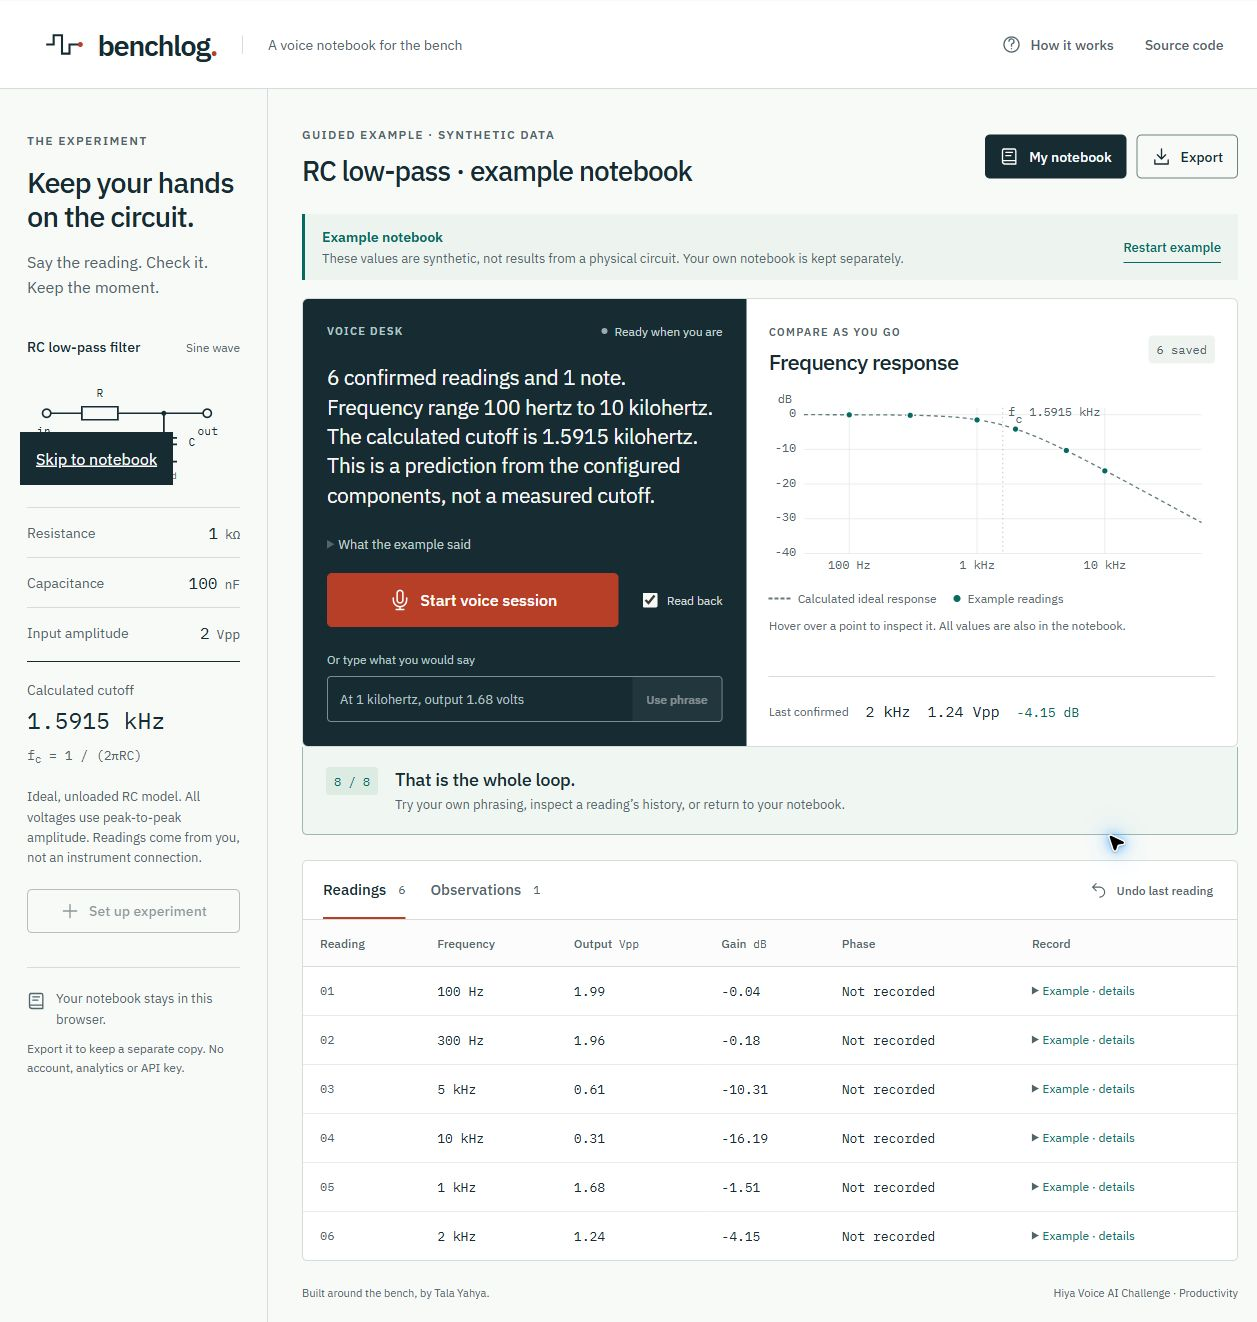
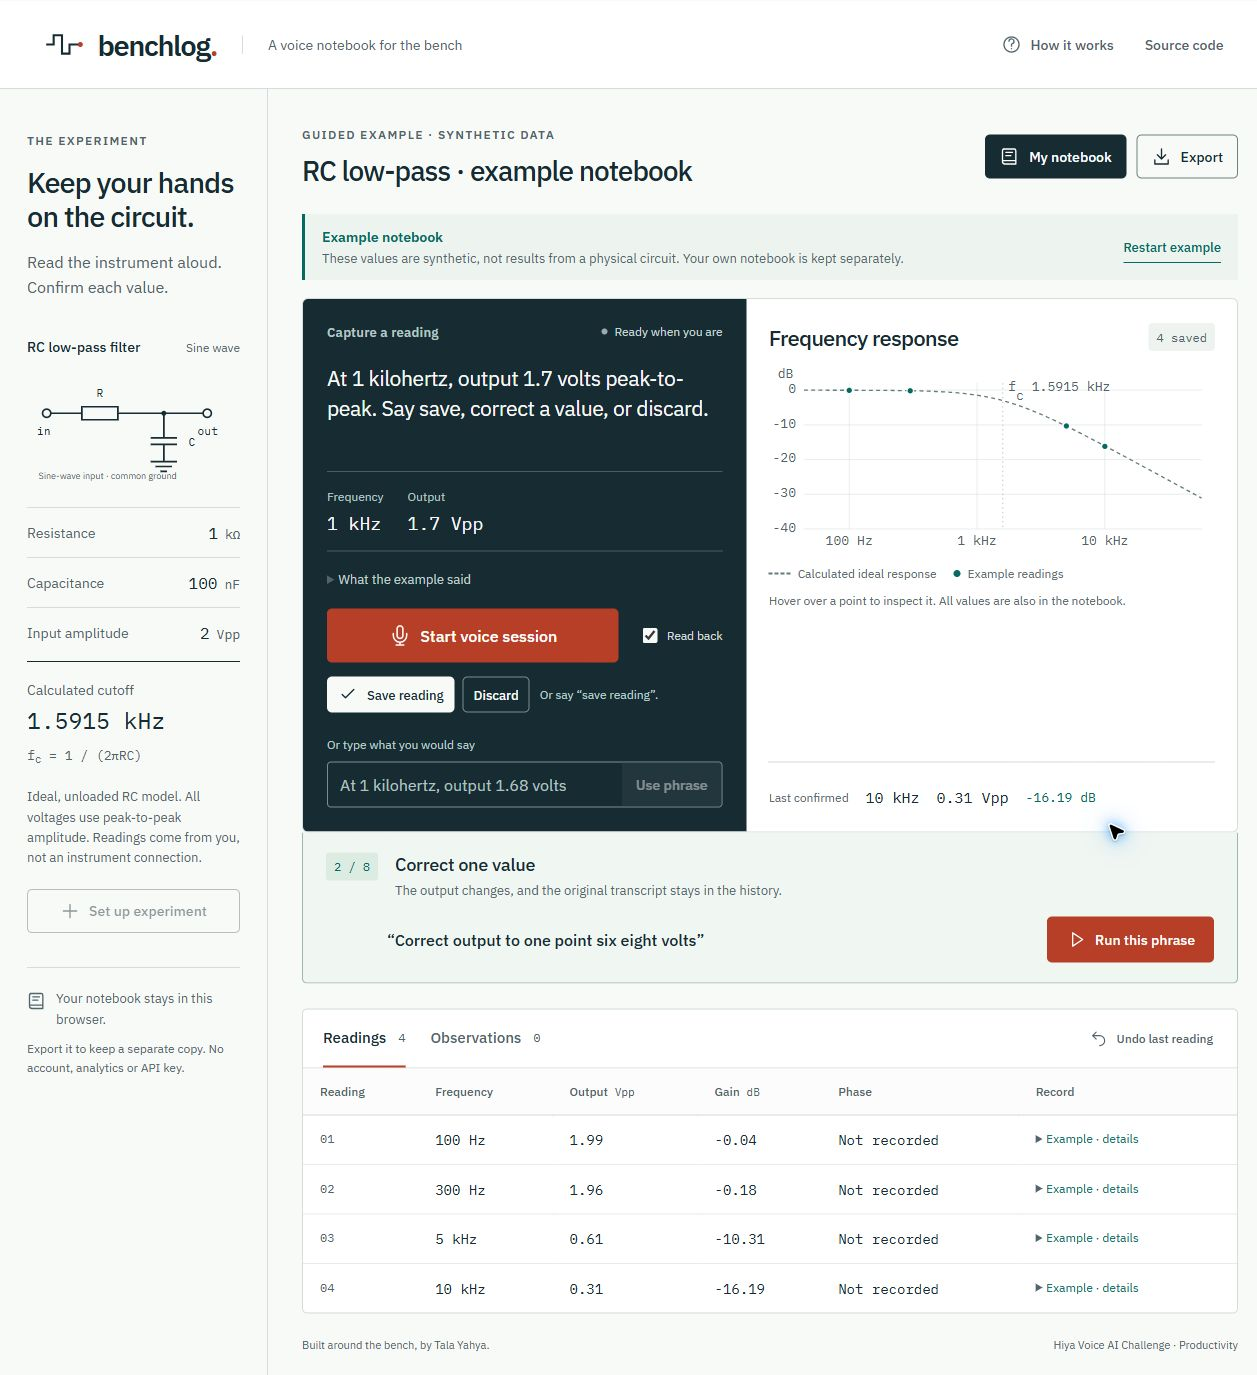
Repair cross-platform install and verify responsive workflow

diff --git a/src/App.tsx b/src/App.tsx
@@ -448,12 +448,12 @@ export default function App() {
         <aside className="experiment">
           <p className="eyebrow">The experiment</p>
           <h1>
-            Keep your hands
+            Keep your hands{" "}
             <br />
             on the circuit.
           </h1>
           <p className="intro">
-            Read the instrument aloud.
+            Read the instrument aloud.{" "}
             <br />
             Confirm each value.
           </p>

diff --git a/docs/verification.md b/docs/verification.md
@@ -4,15 +4,18 @@ Checked during development on **18 November 2026**. This record distinguishes ob
 
 ## Observed browser workflow
 
-The production build was exercised in **desktop Microsoft Edge**. These observations concern that build and environment; they do not establish that a public deployment or every other browser has been checked.
+The production build was served on **localhost and exercised in desktop Microsoft Edge**. These observations concern that build and environment; they do not establish that a public deployment or every other browser has been checked.
 
 | Check                  | Observed result                                                                                                                                                    | What it establishes                                                                                                      |
 | ---------------------- | ------------------------------------------------------------------------------------------------------------------------------------------------------------------ | ------------------------------------------------------------------------------------------------------------------------ |
 | Bundled audio fixture  | `public/examples/reading.wav` is a synthetic Windows text-to-speech clip saying “At one kilohertz, output one point seven volts.”                                  | The input is a reproducible artificial speech sample, not audio from a physical lab experiment.                          |
-| Actual local inference | **How it works > Transcribe the sample on this device** ran the audio through the local Whisper model. The returned text was “At one kilohertz, output 1.7 volts.” | Audio-file decoding and real ASR inference worked for this clip. The result was not supplied as a hard-coded transcript. |
+| Actual local inference | **How it works > Transcribe the sample on this device** ran the audio through the local Whisper model. The returned text was “At 1 kilohertz, output 1.7 volts.” | Audio-file decoding and real ASR inference worked for this clip. The result was not supplied as a hard-coded transcript. |
 | Interpretation         | The result appeared as a pending **1000 Hz / 1.7 Vpp** reading.                                                                                                    | The recognised phrase reached the measurement interpreter with the expected units and values.                            |
 | Correction             | The guided correction changed the proposed output to **1.68 Vpp**.                                                                                                 | A supported correction changed the intended field before confirmation.                                                   |
 | Confirmation           | Saving the corrected reading updated the notebook and response graph.                                                                                              | The inspected flow kept the reading pending until confirmation and then presented the confirmed result.                  |
+| Complete example       | The eight-step guided workflow finished with six saved readings and one note. | The complete synthetic example worked through the visible interface in this environment. |
+| CSV export             | The downloaded CSV was opened and inspected. It retained the original 1.7 Vpp phrase and correction to 1.68 Vpp. | The downloaded record included provenance, not only the final value shown in the table. |
+| Narrow viewport        | At a 390 × 844 emulated browser viewport, `innerWidth` was 390 and document `scrollWidth` was 375. | No horizontal page overflow was observed at that viewport. This is not a physical mobile-device test. |
 
 The sample route opens an isolated synthetic notebook. The ordinary guided example buttons pass text to the interpreter; they are useful for exploring the command workflow but do not run speech recognition themselves. The audio-fixture route is deliberately separate so reviewers can tell those two kinds of demonstration apart.
 
@@ -25,7 +28,7 @@ npm test
 npm run build
 ```
 
-The test suite covers the implemented command engine and speech lifecycle using controlled inputs and mocked browser APIs. Relevant areas include number/unit handling, invalid inputs, pending versus confirmed records, corrections, export behaviour, cancellation and stale callbacks. The current test count and result should be taken from the runner output, since the suite may change.
+All **91 tests passed** in the full-suite check on 18 November 2026. The test suite covers the implemented command engine and speech lifecycle using controlled inputs and mocked browser APIs. Relevant areas include number/unit handling, invalid inputs, pending versus confirmed records, corrections, export behaviour, cancellation and stale callbacks. This is a dated result; use the runner output for the current count and result as the suite changes.
 
 Mocked microphone and speech-synthesis tests check the application's reactions to events. They do not measure how well a real microphone captures speech, whether a real browser recognises different voices, or how noisy a laboratory can be before the workflow degrades.
 

diff --git a/README.md b/README.md
@@ -51,7 +51,7 @@ You can use **Or type what you would say** throughout. This exercises the same c
 
 Open **How it works**, then choose **Transcribe the sample on this device**. The app feeds [`public/examples/reading.wav`](public/examples/reading.wav), a synthetic Windows text-to-speech recording, through the actual local Whisper model. It opens an isolated example notebook, downloads the model if necessary and presents the resulting transcript as a pending reading. This is real model inference on synthetic audio, rather than a prerecorded transcript substituted for recognition.
 
-In a desktop Edge check, Whisper returned **“At one kilohertz, output 1.7 volts.”**, which became a pending **1000 Hz / 1.7 Vpp** reading. The guided correction to **1.68 Vpp** and subsequent confirmation added it to the notebook and plot. This checks one audio fixture, not live microphone accuracy or general recognition performance. See the [verification record](docs/verification.md).
+In a desktop Edge check, Whisper returned **“At 1 kilohertz, output 1.7 volts.”**, which became a pending **1000 Hz / 1.7 Vpp** reading. The guided correction to **1.68 Vpp** and subsequent confirmation added it to the notebook and plot. This checks one audio fixture, not live microphone accuracy or general recognition performance. See the [verification record](docs/verification.md).
 
 ## Supported commands
 
@@ -147,9 +147,9 @@ With the defaults, the calculated cutoff is approximately **1.59 kHz**. The expe
 
 ## Verification and limits
 
-The tests exercise the command engine and voice lifecycle, including parsing, validation, correction, confirmation, export behaviour and stale-callback handling. Run `npm test` for the current result. A successful build or mocked voice test does not establish real microphone accuracy.
+The tests exercise the command engine and voice lifecycle, including parsing, validation, correction, confirmation, export behaviour and stale-callback handling. All **91 tests passed** in the full-suite check on 18 November 2026; run `npm test` for the current result. A successful build or mocked voice test does not establish real microphone accuracy.
 
-The production build's local Whisper path was exercised with the bundled synthetic speech fixture in desktop Microsoft Edge. Its recognised values, correction and confirmation were observed in the interface. Live microphone lifecycle behaviour is covered with mocks; there has not been a live user microphone trial or a broad browser/device test. The distinction is recorded in [verification.md](docs/verification.md).
+The localhost production build's local Whisper path was exercised with the bundled synthetic speech fixture in desktop Microsoft Edge. The complete eight-step guided workflow produced six readings and one note. The downloaded CSV retained the original 1.7 Vpp phrase and its correction to 1.68 Vpp. A 390 × 844 browser viewport had no horizontal page overflow; this was an emulated viewport, not a physical mobile-device test. Live microphone lifecycle behaviour is covered with mocks; there has not been a live user microphone trial or a broad browser/device test. The distinction is recorded in [verification.md](docs/verification.md).
 
 This prototype has no completed lab user study, measured time-saving claim or benchmark across accents, noise conditions and devices. It does not check electrical safety or control equipment. Its history is inspectable local provenance, not an immutable audit system. Recognition can be wrong; review each proposed reading.
 

diff --git a/docs/research.md b/docs/research.md
@@ -50,7 +50,7 @@ Public discussions were checked again on 18 November, including the actual threa
 
 The desktop screenshot audit found that the circuit schematic, actual gain plot, numeric ledger and correction history were already specific to the product. The remaining weak spots were smaller: a vague “Keep the moment” phrase, unnecessary “Compare as you go” copy above the already clear plot heading, and duplicate example labels. The decision was to simplify those labels while preserving visible synthetic-data disclosure. Changing the palette or font again would not address those problems.
 
-The audit also caught a focused skip link overlaying the circuit in the captured screenshot. The accessibility feature should remain; its focused placement and the final screenshot should be corrected. No photograph or decorative illustration is needed to make an engineering notebook look authored. Relevant data and a legible schematic carry more meaning here.
+The audit also caught a skip link overlaying the circuit in the captured screenshot. Its hidden state was corrected while retaining keyboard focus visibility, and the final desktop screenshot was checked again. No photograph or decorative illustration is needed to make an engineering notebook look authored. Relevant data and a legible schematic carry more meaning here.
 
 **Typography.** IBM Plex Sans is used for the interface, with IBM Plex Mono for readings and technical values. The shared family gives a coherent relationship between ordinary instructions and precise numbers. IBM documents its technical-diagram usage and the family's natural/engineered design origin. The fonts are bundled under the SIL Open Font License; no IBM branding is used. Body text is at least 16px, with a small, consistent hierarchy and left alignment. [Plex concept](https://www.ibm.com/plex/concept/), [Technical-diagram typography](https://www.ibm.com/design/language/infographics/technical-diagrams/design/), [Font licence](https://github.com/IBM/plex/blob/master/LICENSE.txt)
 

diff --git a/docs/review-guide.md b/docs/review-guide.md
@@ -113,7 +113,7 @@ The guided example data makes it possible to explore the command workflow withou
 
 There is also a separate **real recognition test**: open **How it works** and choose **Transcribe the sample on this device**. This takes the bundled `public/examples/reading.wav` recording, made with Windows text-to-speech, and actually runs it through local Whisper. It opens a separate example notebook so it does not mix those values with personal measurements.
 
-That fixture was checked in desktop Edge against the production build. Whisper produced “At one kilohertz, output 1.7 volts.” The app showed a pending 1000 Hz / 1.7 Vpp reading. The guided correction changed it to 1.68 Vpp, and confirmation added it to the table and graph. That is useful evidence that audio decoding, model inference, interpretation and confirmation work together for this sample. It does not prove live microphone accuracy, performance across accents, a physical experiment or a time saving.
+That fixture was checked in desktop Edge against the production build. Whisper produced “At 1 kilohertz, output 1.7 volts.” The app showed a pending 1000 Hz / 1.7 Vpp reading. The guided correction changed it to 1.68 Vpp, and confirmation added it to the table and graph. That is useful evidence that audio decoding, model inference, interpretation and confirmation work together for this sample. It does not prove live microphone accuracy, performance across accents, a physical experiment or a time saving.
 
 ## Where to look in the source
 

diff --git a/docs/submission.md b/docs/submission.md
@@ -11,7 +11,7 @@ The idea grew from conversations about starting RC circuit experiments and becom
 
 ## What the prototype does
 
-A student sets the resistor, capacitor and fixed input amplitude for an RC low-pass sweep. They say, “At one kilohertz, output one point seven volts.” Benchlog presents the interpreted values and reads them back. “Correct output to one point six eight volts” changes the proposed reading; “save reading” commits it. The original phrase and correction remain inspectable.
+A student sets the resistor, capacitor and fixed input amplitude for an RC low-pass sweep. They say, “At one kilohertz, output one point seven volts.” Benchlog presents the interpreted values with optional spoken read-back. “Correct output to one point six eight volts” changes the proposed reading; “save reading” commits it. The original phrase and correction remain inspectable.
 
 Confirmed readings appear in a table and beside the ideal RC response curve. Observations are stored separately, and CSV, Markdown and JSON exports let the student keep a copy. The example notebook is explicitly synthetic and separate from personal records. The app records values supplied by a person; it does not operate instruments or measure the circuit itself.
 
